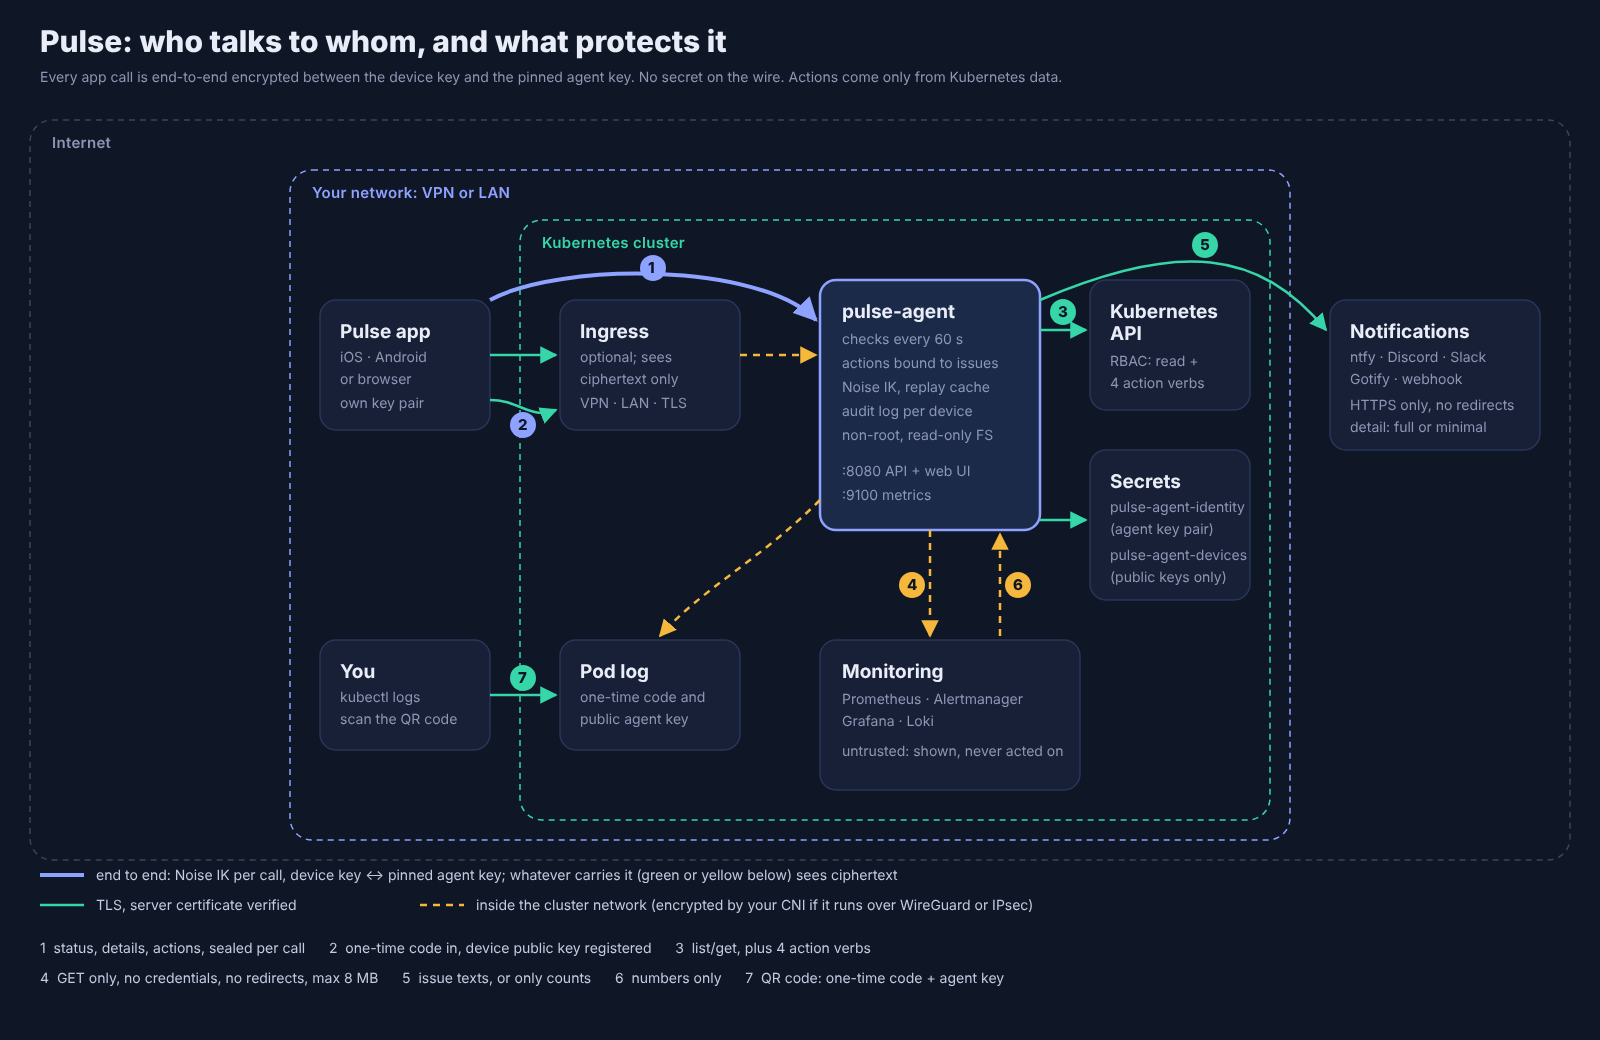
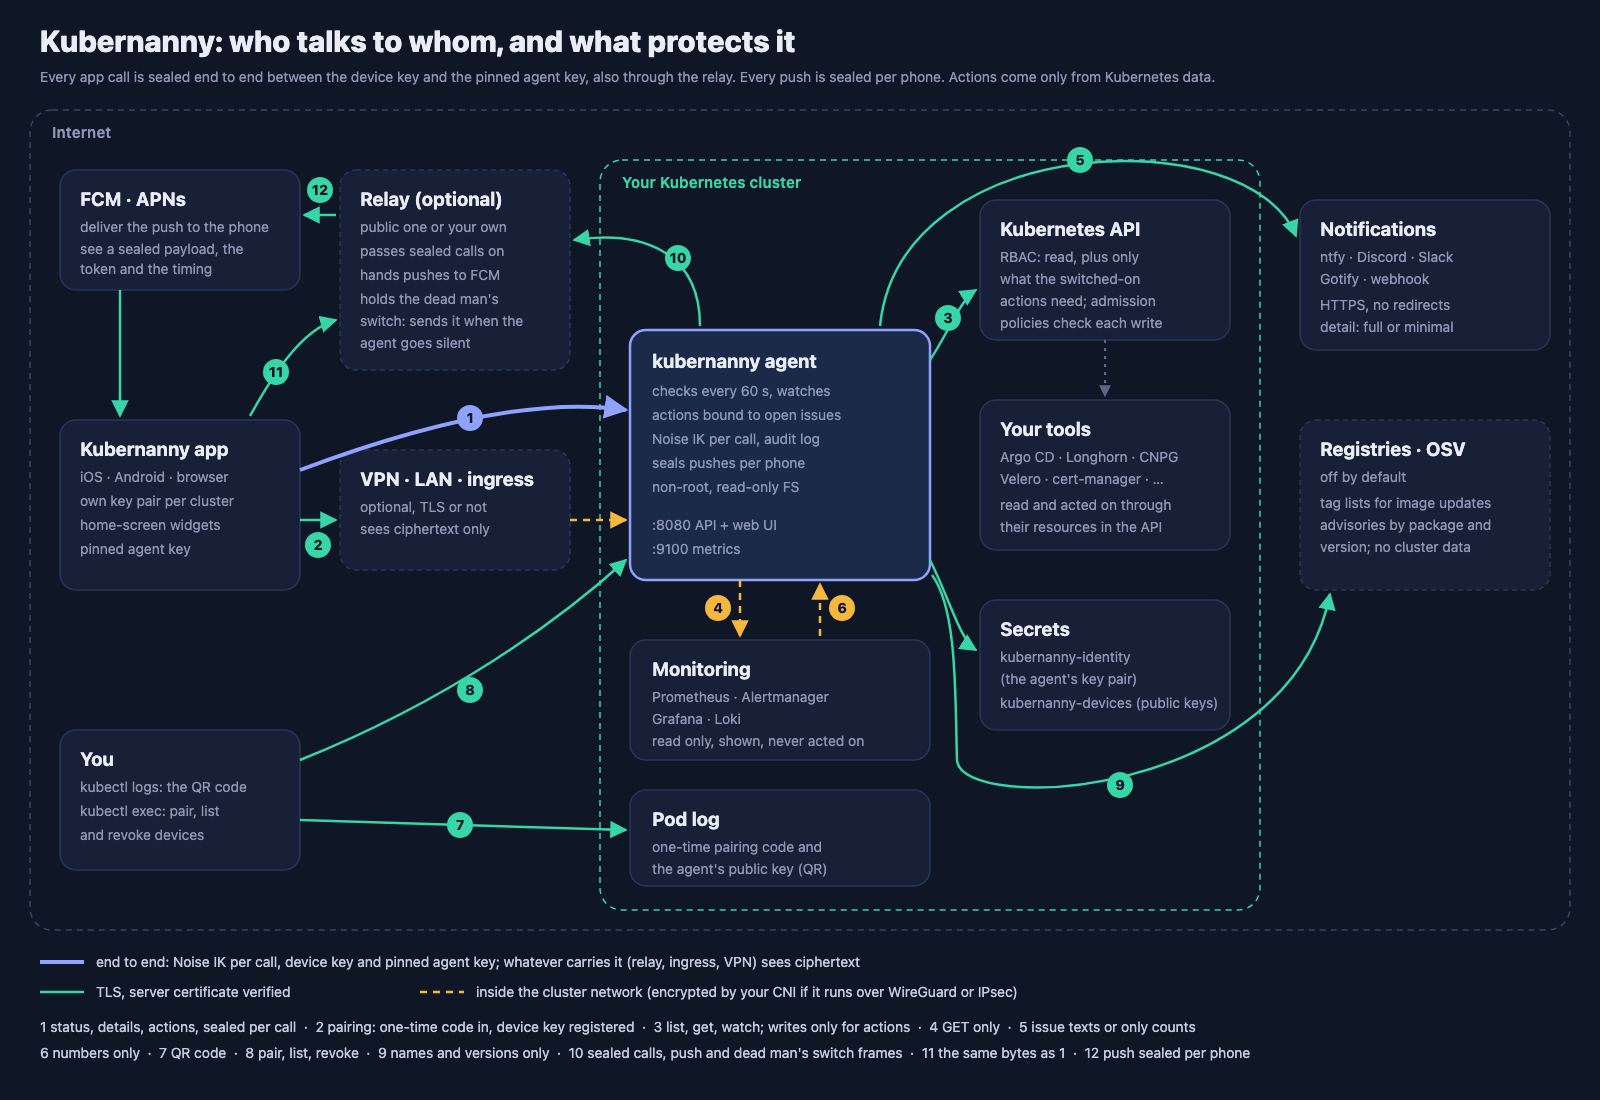
docs: communication diagram from an SVG source, as the system is today
The PNG still showed the project's earlier name, no relay, no push and
the old action count. It is now rendered from docs/diagrams/communication.svg
(scripts/diagrams/render.mjs) and shows the relay with push and the dead
man's switch, FCM and APNs, the API with admission policies and the
tools acted on through it, registries and OSV; its numbers follow the
channel table in COMMUNICATION.md.

diff --git a/website/build/markdown.spec.ts b/website/build/markdown.spec.ts
@@ -66,8 +66,8 @@ describe('rewriteUrl', () => {
       `${REPO_URL}/blob/main/protocol/test/vectors.json`,
     );
     expect(rewriteUrl('../agent/src', ctx('PROTOCOL.md')).url).toBe(`${REPO_URL}/tree/main/agent/src`);
-    expect(rewriteUrl('diagrams/communication.html', ctx('README.md')).url).toBe(
-      `${REPO_URL}/blob/main/docs/diagrams/communication.html`,
+    expect(rewriteUrl('../scripts/diagrams/render.mjs', ctx('README.md')).url).toBe(
+      `${REPO_URL}/blob/main/scripts/diagrams/render.mjs`,
     );
     expect(rewriteUrl('UNKNOWN.md', ctx('README.md')).url).toBe(`${REPO_URL}/blob/main/docs/UNKNOWN.md`);
   });

diff --git a/docs/DEVELOPMENT.md b/docs/DEVELOPMENT.md
@@ -79,6 +79,10 @@ cd agent && npm run lint    # one package; npm run lint:fix sorts imports and fo
 
 The root's TypeScript 6 is only for the linter: agent, relay and protocol compile with TypeScript 7, which typescript-eslint cannot read yet. The CI job `lint` runs the same. Large mechanical reformats go into `.git-blame-ignore-revs`.
 
+## Diagrams
+
+`docs/communication.png` (README, COMMUNICATION) is rendered from `docs/diagrams/communication.svg`: edit the SVG, then `node scripts/diagrams/render.mjs` (needs `e2e/` installed for Playwright's Chromium). Its numbers are the channels of COMMUNICATION.md.
+
 ## The demo in the app
 
 The app's demo (first screen, `/#/demo`, and demo.kubernanny.app) does not run an agent: `app/src/app/core/demo/demo-agent.ts` answers from recordings in `app/public/demo/<scenario>.<lang>.json` and shifts their times to now, so the demo never looks stale. The recordings are made from the agent's demo cluster:
